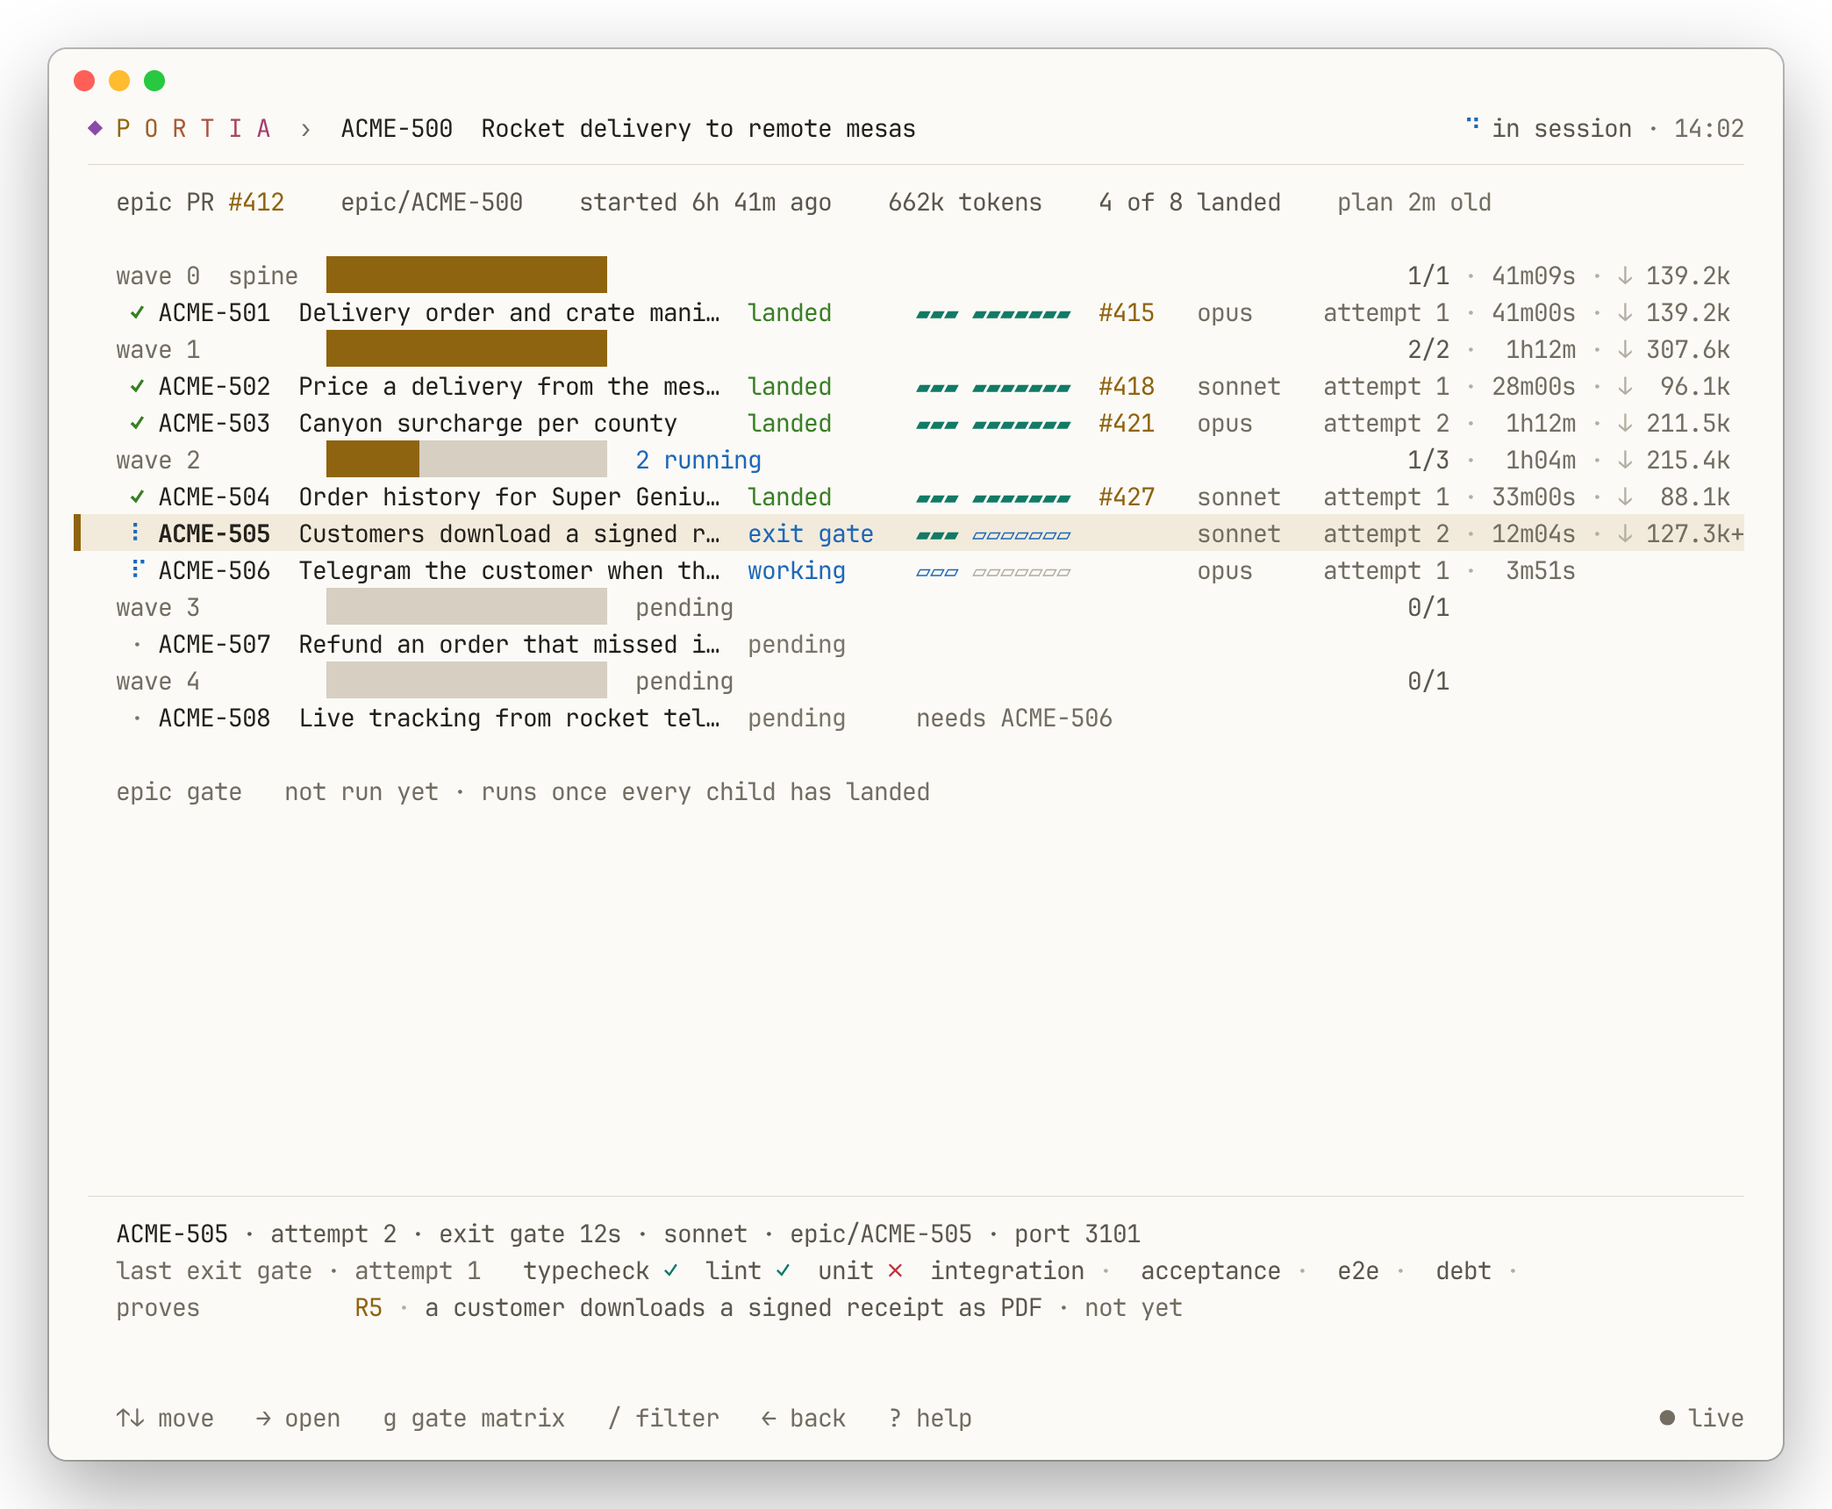
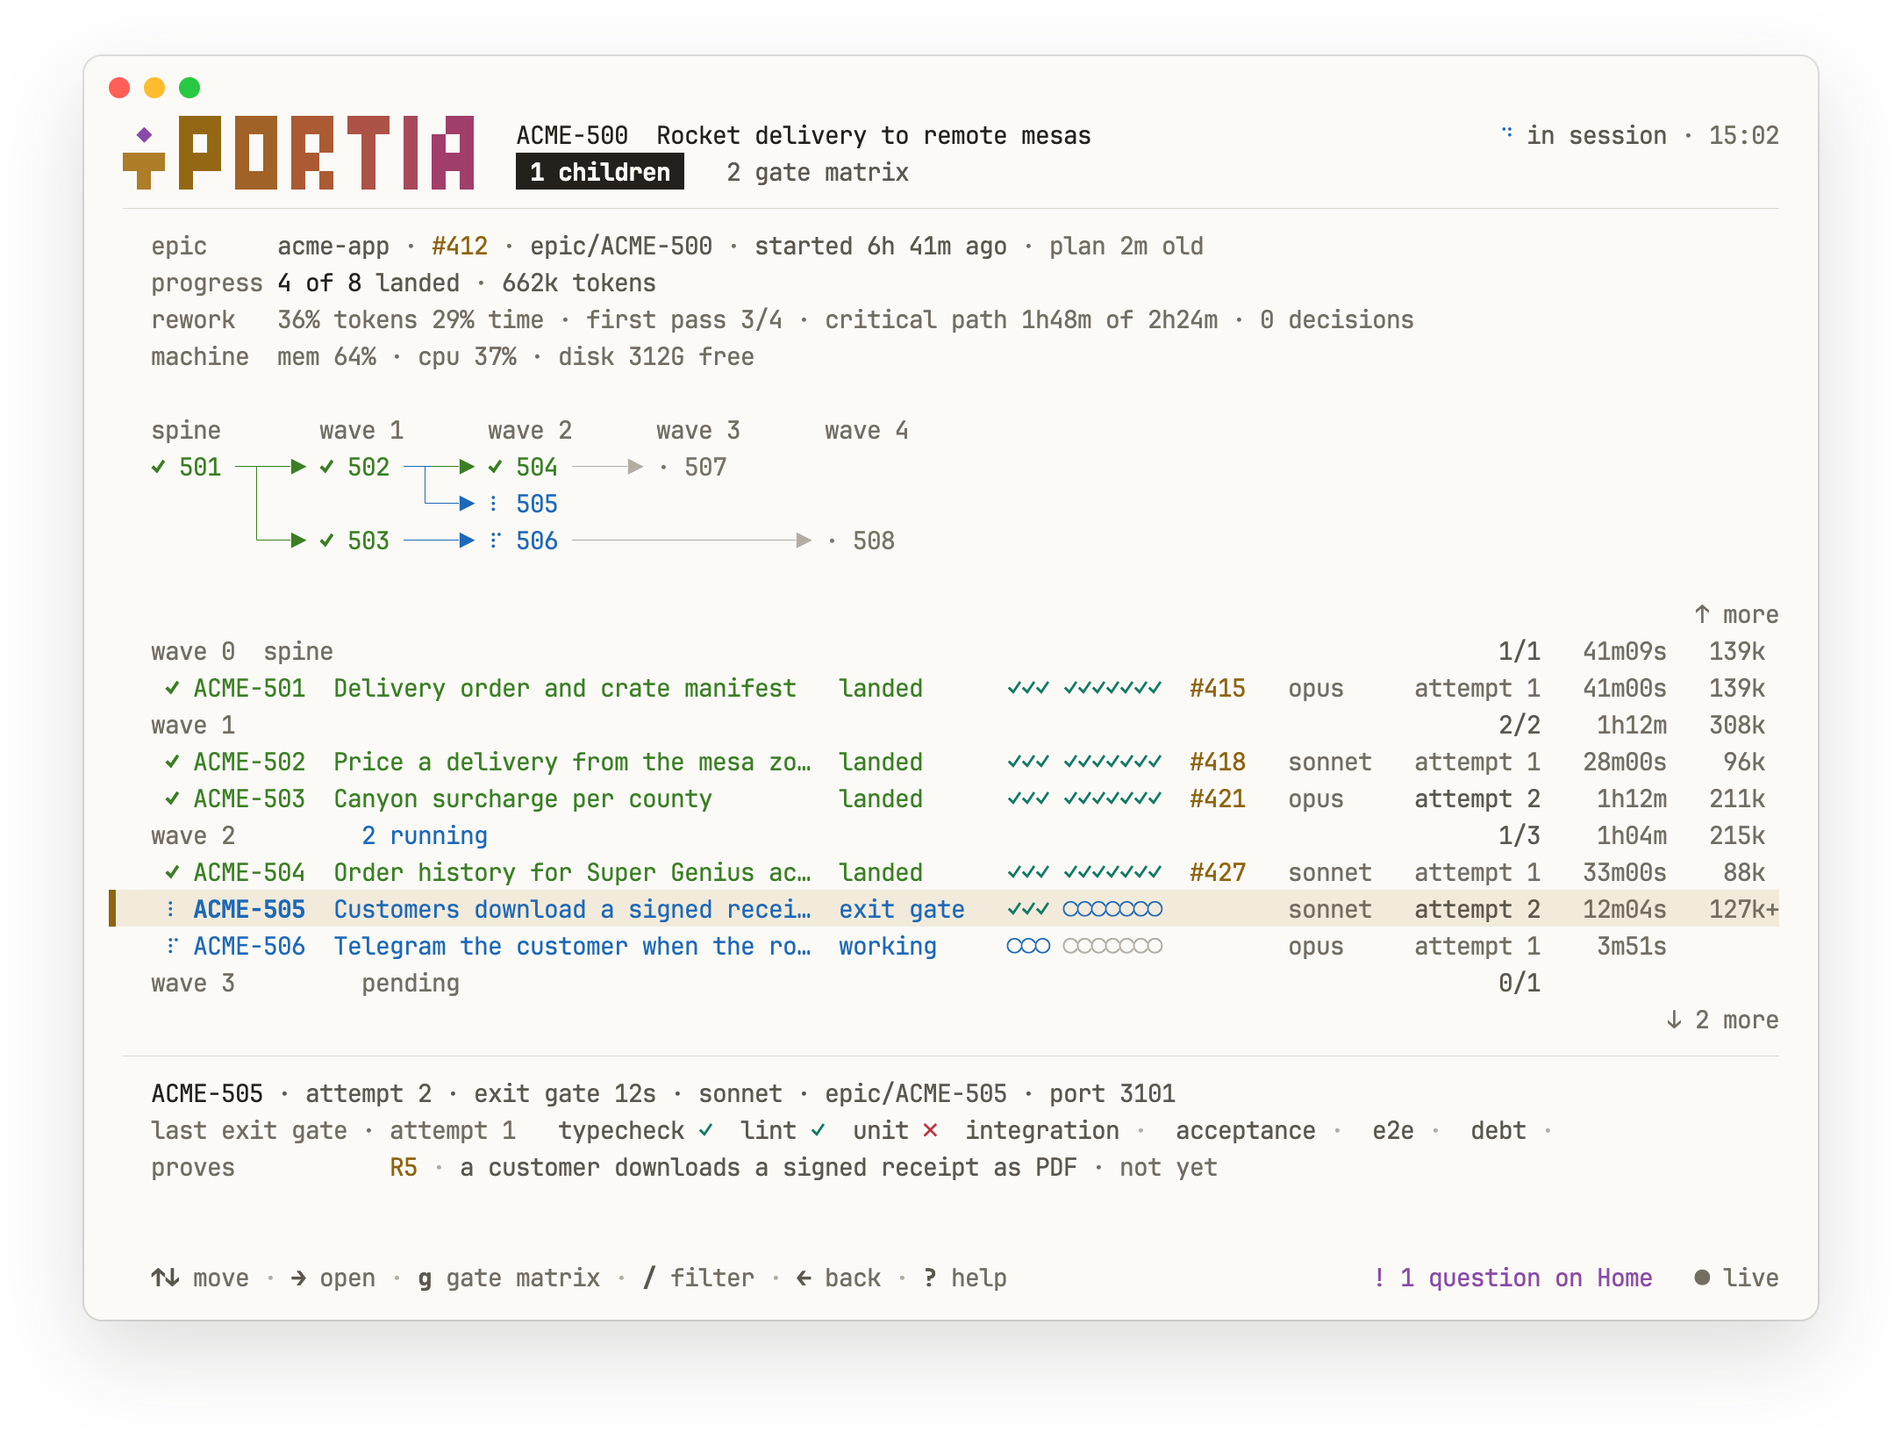
docs(readme): lead with the product, a tested install guide, and current screenshots (#10)
* docs(readme): lead with the product, a tested install guide, and current screenshots

* docs(readme): a three-line quick start, and screenshots redrawn from the latest main

diff --git a/README.md b/README.md
@@ -1,67 +1,100 @@
+<div align="center">
+
 # Portia
+
+**Hand Claude Code an epic, get back one reviewed pull request.**
 
 [![ci](https://github.com/mousedown/portia/actions/workflows/ci.yml/badge.svg)](https://github.com/mousedown/portia/actions/workflows/ci.yml)
 [![License: Apache-2.0](https://img.shields.io/badge/license-Apache--2.0-blue)](LICENSE)
 
-**Hand Claude Code an epic, get back one reviewed pull request.**
+[Install](#install) · [How it works](#how-it-works) · [Watch a run](#watch-a-run) · [Reference](docs/reference.md) · [portia.run](https://portia.run)
 
-**Plan → spine → waves → epic PR → you merge.**
+</div>
 
-Portia is a Claude Code skill plus a small CLI. Point it at an epic (or a large story) in Jira or GitHub Issues and it plans the work, writes the acceptance tests first, then fans the tickets out to parallel workers, each in its own git worktree, driven by one `portia drive` command that stops only where a person or the AI is needed. Every piece is gated and merged onto one integration branch, and you get a single PR to review at the end. Portia never merges to `main`.
+<picture>
+  <source media="(prefers-color-scheme: light)" srcset="docs/images/run-light.png">
+  <img alt="portia view of one run: a wave map from the spine to wave 4, four children landed, two running and two pending, each with its gates, PR, model and tokens" src="docs/images/run.png">
+</picture>
+
+<sub>Screens are drawn by Portia's own renderer. The epics are invented test data, except [the real run](#what-it-proves) further down.</sub>
+
+Portia is a Claude Code skill plus a small CLI. Point it at an epic or a large story in Jira or GitHub Issues:
 
 ```text
 /portia PROJ-123
 ```
 
-Named for the judge in *The Merchant of Venice*, who hears the evidence before anything is decided. Every piece of a run proves itself before it lands, and the verdict on the whole is yours.
+It plans the work, writes the acceptance tests first, then fans the tickets out to parallel workers, each in its own git worktree. Every piece is gated and merged onto one integration branch, and you get a single PR to review at the end. **Portia never merges to `main`.**
 
-## Is it the right tool?
+Named for the judge in *The Merchant of Venice*, who hears the evidence before anything is decided.
 
-- **Good fit:** a feature with some shared groundwork and several tickets that can be built side by side.
-- **Not a fit:** a single small change (Portia will decline it at planning time), or a batch of unrelated tickets (they'd all ship as one PR).
+| Good fit | Not a fit |
+| --- | --- |
+| A feature with some shared groundwork and several tickets that can be built side by side | A single small change (Portia declines it at planning time), or a batch of unrelated tickets (they would all ship as one PR) |
 
-## Get started
+## Install
 
-**1. Install.** On macOS, Linux or WSL:
+Portia runs on macOS, Linux and WSL. You need [Claude Code](https://docs.claude.com/claude-code) and the [GitHub CLI](https://cli.github.com), logged in. The installer tells you if either is missing, and adds everything else. Installing takes about a minute.
+
+```sh
+# 1. Install
+curl -fsSL https://raw.githubusercontent.com/mousedown/portia/main/scripts/install.sh | bash
+
+# 2. In a new terminal, from your repository: the setup wizard detects your settings, press Enter to accept
+portia init
+```
+
+```text
+# 3. In Claude Code, from your repository: run an epic
+/portia PROJ-123
+```
+
+That is all most people need. The steps below say the same thing with more detail.
+
+### 1. Check what you need
+
+| You need | Why | Check it |
+| --- | --- | --- |
+| [Claude Code](https://docs.claude.com/claude-code) | Runs the skill and the workers | `claude --version` |
+| [GitHub CLI](https://cli.github.com), logged in | Opens and merges PRs, reads GitHub Issues | `gh auth status` |
+| git | Worktrees, rebases, branches | `git --version` |
+| [Bun](https://bun.sh) 1.2 or later | Runs the CLI | The installer adds it if it is missing |
+
+Your project may need more: Jira credentials ([step 4](#4-set-up-your-repository)), Postgres client tools if your profile sets `db`, Docker if it defines `services`, and Chromium for design checks.
+
+### 2. Run the installer
 
 ```sh
 curl -fsSL https://raw.githubusercontent.com/mousedown/portia/main/scripts/install.sh | bash
 ```
 
-That takes under a minute. It installs [Bun](https://bun.sh) if you don't have it, then the latest release of the `portia` CLI and the `/portia` and `/portia-setup` skills, all under your home directory and without `sudo`. [Read the script](scripts/install.sh) first if you like.
+Everything goes under your home directory, with no `sudo`, and no dependency's install script runs. [Read the script](scripts/install.sh) first if you like.
 
-To run an epic you also need [Claude Code](https://docs.claude.com/claude-code) and the [GitHub CLI](https://cli.github.com), logged in with `gh auth login`. The installer tells you if either is missing. For a Jira tracker, set `JIRA_BASE_URL`, `JIRA_EMAIL` and `JIRA_API_TOKEN`.
+| Installed | Where |
+| --- | --- |
+| Portia's source | `~/.portia/src` |
+| The `portia` command | `~/.bun/bin/portia` |
+| The `/portia` and `/portia-setup` skills | `~/.claude/skills/` (or `$CLAUDE_CONFIG_DIR/skills/`) |
 
-<details>
-<summary>Other ways to install</summary>
+### 3. Check it worked
 
-With Bun, and the skills from the Claude Code plugin marketplace. Plugin skills are namespaced: `/portia:portia` and `/portia:portia-setup`.
+Open a new terminal and run:
 
 ```sh
-bun add -g @mousedown/portia
+portia version
 ```
 
-```text
-/plugin install portia --marketplace mousedown/portia
-```
+Then start a new Claude Code session and type `/portia-setup`: the skill should be offered. If either fails, see [Troubleshooting](#troubleshooting).
 
-Use one route or the other, not both. Update this route with `bun add -g @mousedown/portia@latest` and `/plugin update portia`.
+### 4. Set up your repository
 
-</details>
-
-**2. Set up your repository.** In Claude Code, from the repo:
-
-```text
-/portia-setup
-```
-
-or in a terminal:
+The setup wizard writes a profile for your repository. From its root, in a terminal:
 
 ```sh
 portia init
 ```
 
-Either one detects your tracker, checks and machine, shows them, and asks whether you want to change anything. Press Enter to accept a default.
+Or run `/portia-setup` in Claude Code. Either one detects your tracker, checks and machine, shows them, and asks whether to change anything. Press Enter to accept a default.
 
 ```text
 ◆  Detected settings
@@ -76,13 +109,17 @@ Either one detects your tracker, checks and machine, shows them, and asks whethe
 │  ○ Yes / ● No
 ```
 
-**3. Run an epic** (next section).
+For Jira, set these first so `portia init` can find your tracker:
 
-Update by running the installer again. It takes `--uninstall` to remove Portia, `--ref <tag>` to install a particular version, and `--design` to add Chromium for design checks (`bunx playwright install chromium` does the same for the Bun route).
+```sh
+export JIRA_BASE_URL=https://your-team.atlassian.net
+export JIRA_EMAIL=you@example.com
+export JIRA_API_TOKEN=...
+```
 
-## Run it
+### 5. Run an epic
 
-Open Claude Code in the root of the repository and ask:
+Open Claude Code in the root of your repository:
 
 ```text
 /portia PROJ-123        # a Jira epic or story
@@ -90,21 +127,78 @@ Open Claude Code in the root of the repository and ask:
 portia resume PROJ-123  # pick up a run that was interrupted
 ```
 
-What happens next:
+### Update or remove
+
+Run the installer again to update. Add a flag after `bash -s --` for anything else:
+
+```sh
+curl -fsSL https://raw.githubusercontent.com/mousedown/portia/main/scripts/install.sh | bash -s -- --design
+```
+
+| Flag | Does |
+| --- | --- |
+| `--ref <ref>` | Install this tag, branch or commit |
+| `--design` | Also install headless Chromium for design checks |
+| `--uninstall` | Remove the command and the skills. Your profiles and run state stay in `~/.portia` |
+
+### Troubleshooting
+
+| What you see | What to do |
+| --- | --- |
+| `portia: command not found` | Add Bun's folder to your path: `export PATH="$HOME/.bun/bin:$PATH"`, and to your shell profile if a new terminal does not have it |
+| `The GitHub CLI is not logged in` | Run `gh auth login` |
+| `/portia` is not offered in Claude Code | Start a new session. If you set `CLAUDE_CONFIG_DIR`, check that it was set when you installed |
+| `… already exists and is not a link` | Something else has that name. Move it, then run the installer again |
+| `Portia runs on macOS and Linux` | On Windows, install inside WSL |
+
+<details>
+<summary>Other ways to install</summary>
+
+**From a checkout,** to work on Portia itself. The installer links your checkout instead of cloning, and keeps the dev tools:
+
+```sh
+git clone https://github.com/mousedown/portia.git
+cd portia
+./scripts/install.sh
+```
+
+**From npm and the plugin marketplace** is not available yet: `@mousedown/portia` is published with the first release. The Claude Code plugin installs today, but its skills need the `portia` command, so until then use the installer above.
+
+</details>
+
+## How it works
+
+<picture>
+  <source media="(prefers-color-scheme: light)" srcset="docs/images/how-it-works-light.svg">
+  <img alt="Plan, which you approve; spine, which you sign off; waves of parallel workers, each rebased, re-gated and squash-merged; epic PR, ready when every acceptance test passes; which you merge" src="docs/images/how-it-works.svg">
+</picture>
 
 1. **Plan.** Portia reads the epic and its tickets and shows you a wave table: which tickets run together and which wait for others. Nothing is written until you say yes. The plan is stored in the tickets themselves.
 2. **Spine.** One worker lands the shared code (schema, types, API shapes) and writes every acceptance scenario as a failing test. You sign off that the tests describe the feature.
 3. **Waves.** Ready tickets run in parallel, each in its own worktree with its own port and database. Each one is rebased, re-gated, PR'd into the integration branch and squash-merged once CI passes.
 4. **Epic PR.** When every ticket has landed and the acceptance tests pass, the epic PR is marked ready. **You review and merge it.**
 
+### What it proves
+
+- **Before a child merges**, its gates run again on the head rebased onto the integration branch, not on the branch the worker left.
+- **Nothing breaks what landed.** The ratchet re-runs every scenario that earlier children made pass, so a later child cannot quietly undo one.
+- **The epic PR is ready** only when every acceptance spec written at the spine passes.
+
+Here is that record from a real run: one of our eval epics, eight tickets, all landed, in about 23 minutes and 3.71M tokens. The child's evidence names the scenario it proved and the test that proved it.
+
 <picture>
-  <source media="(prefers-color-scheme: light)" srcset="docs/images/run-light.png">
-  <img alt="portia view of one run: its children by wave, two landed waves, two children running in wave 2 and two waves still pending" src="docs/images/run.png">
+  <source media="(prefers-color-scheme: light)" srcset="docs/images/real-run-light.png">
+  <img alt="portia view of a finished eval run: 8 of 8 children landed across a spine and three waves, each with its gates, PR, model and tokens" src="docs/images/real-run.png">
 </picture>
 
-### Judgement, not guesswork
+<picture>
+  <source media="(prefers-color-scheme: light)" srcset="docs/images/real-child-light.png">
+  <img alt="portia view of one landed child: scenario R1 proven by a named test run with 2 passing, its task and exit gates all green, and every file inside its declared paths" src="docs/images/real-child.png">
+</picture>
 
-Portia stops and asks you, instead of guessing, when:
+### It stops and asks
+
+Portia asks you, instead of guessing, when:
 
 - the plan needs your approval
 - the acceptance tests need sign-off
@@ -117,33 +211,41 @@ Portia stops and asks you, instead of guessing, when:
   <img alt="portia view of a parked child: the worker asks whether it may add a migration outside its declared paths" src="docs/images/child-parked.png">
 </picture>
 
-### What it proves
+## Watch a run
 
-- **Before a child merges**, its gates run again on the head rebased onto the integration branch, not on the branch the worker left.
-- **Nothing breaks what landed.** The ratchet re-runs every scenario that earlier children made pass, so a later child cannot quietly undo one.
-- **The epic PR is ready** only when every acceptance spec written at the spine passes.
-
-`portia view PROJ-123 PROJ-130` shows that record for one child: its evidence, gates, files and attempts.
-
-### Watch it
+`portia view` is a live terminal view of every run: what is running, what waits on you, and what landed, with the machine's load, memory, disk and worker slots in the header. Portia usually runs on a machine of its own, so it works well over SSH. Piped, it prints plain tables.
 
 ```sh
-portia view                  # every run, live
-portia view PROJ-123         # one run: its children by wave, or the gate matrix
+portia view                    # every run
+portia view PROJ-123           # one run: its children by wave
 portia view PROJ-123 PROJ-130  # one child: evidence, gates, files, worker, attempts
 ```
 
 <picture>
   <source media="(prefers-color-scheme: light)" srcset="docs/images/home-light.png">
-  <img alt="portia view home: the Portia banner, the build machine's load, and runs grouped as in session, awaiting judgement, at rest and delivered" src="docs/images/home.png">
+  <img alt="portia view home: the Portia banner, the build machine's load, runs grouped as waiting on you, in session and awaiting judgement, and a worker's parked question ready to answer" src="docs/images/home.png">
 </picture>
 
-A terminal view of every run: what is running, what waits on you, and what landed, with the machine's CPU, load, memory, disk and worker slots in the header (Portia usually runs on a machine of its own, opened over SSH). It never writes to a run; `n` starts or resumes one by opening `claude "/portia KEY"` in a new tmux or Ghostty window, or copying that command when it can open neither. It is one stack of pages, Home › Run › Child › Worker, with Activity and Machine beside Home; the header shows where you are and the footer the keys that work there, each with its word. Piped, it prints plain tables. See [`portia view`](docs/reference.md#watching-runs-portia-view).
+When a worker parks with a question, Home shows it, and you can type your answer right there.
+
+Press `g` on a run for the gate matrix, which shows every child's gates step by step, the steps that fail most often, and whether the base was already failing.
+
+<picture>
+  <source media="(prefers-color-scheme: light)" srcset="docs/images/run-gates-light.png">
+  <img alt="portia view gate matrix: each child's task and exit gate steps, one child failing at unit, with what often fails and the baseline below" src="docs/images/run-gates.png">
+</picture>
+
+Press `w` on a child for its worker's live transcript: what it read, what it wrote, and what its tests said.
 
 <picture>
   <source media="(prefers-color-scheme: light)" srcset="docs/images/worker-light.png">
   <img alt="portia view of a worker: the live transcript of a child's Claude Code session, its reads, writes and test runs" src="docs/images/worker.png">
 </picture>
+
+<details>
+<summary>Keys</summary>
+
+The footer shows the keys that work on the current page.
 
 | Key | Does |
 | --- | --- |
@@ -158,6 +260,10 @@ A terminal view of every run: what is running, what waits on you, and what lande
 | `n` | Start a run, or resume one that waits: `:new KEY` |
 | `y` `e` | Copy the key, or on a child the worktree path; open the worktree in `$EDITOR` |
 | `/` `:` `?` `q` | Filter or search, command, help, quit |
+
+See [`portia view`](docs/reference.md#watching-runs-portia-view) for the rest.
+
+</details>
 
 ## Questions
 

diff --git a/docs/reference.md b/docs/reference.md
@@ -134,7 +134,7 @@ For a **Jira** tracker you also need `JIRA_BASE_URL`, `JIRA_EMAIL` and `JIRA_API
 
 ## Install
 
-See [Get started](../README.md#get-started) in the README. The one-line `scripts/install.sh` installs Bun if it is missing, clones the latest release into `~/.portia/src`, links `src/cli/main.ts` into `~/.bun/bin/portia` and each skill in `skills/` (`portia`, `portia-setup`) into `$CLAUDE_CONFIG_DIR/skills/` (`~/.claude/skills/` when that is unset). Run from a checkout, it links that checkout instead. `--ref <tag>` picks a version, `--design` adds Chromium, and `--uninstall` removes the links and keeps `~/.portia`. The other route is `bun add -g @mousedown/portia` for the CLI with the Claude Code plugin (`/plugin install portia --marketplace mousedown/portia`) for the skills, namespaced as `/portia:portia` and `/portia:portia-setup`.
+See [Install](../README.md#install) in the README. The one-line `scripts/install.sh` installs Bun if it is missing, clones the latest release into `~/.portia/src`, links `src/cli/main.ts` into `~/.bun/bin/portia` and each skill in `skills/` (`portia`, `portia-setup`) into `$CLAUDE_CONFIG_DIR/skills/` (`~/.claude/skills/` when that is unset). Run from a checkout, it links that checkout instead. `--ref <tag>` picks a version, `--design` adds Chromium, and `--uninstall` removes the links and keeps `~/.portia`. From the first release, `bun add -g @mousedown/portia` will also install the CLI, with the Claude Code plugin (`/plugin install portia --marketplace mousedown/portia`) for the skills, namespaced as `/portia:portia` and `/portia:portia-setup`. Until then the package is not on npm, so use the script.
 
 ---
 
